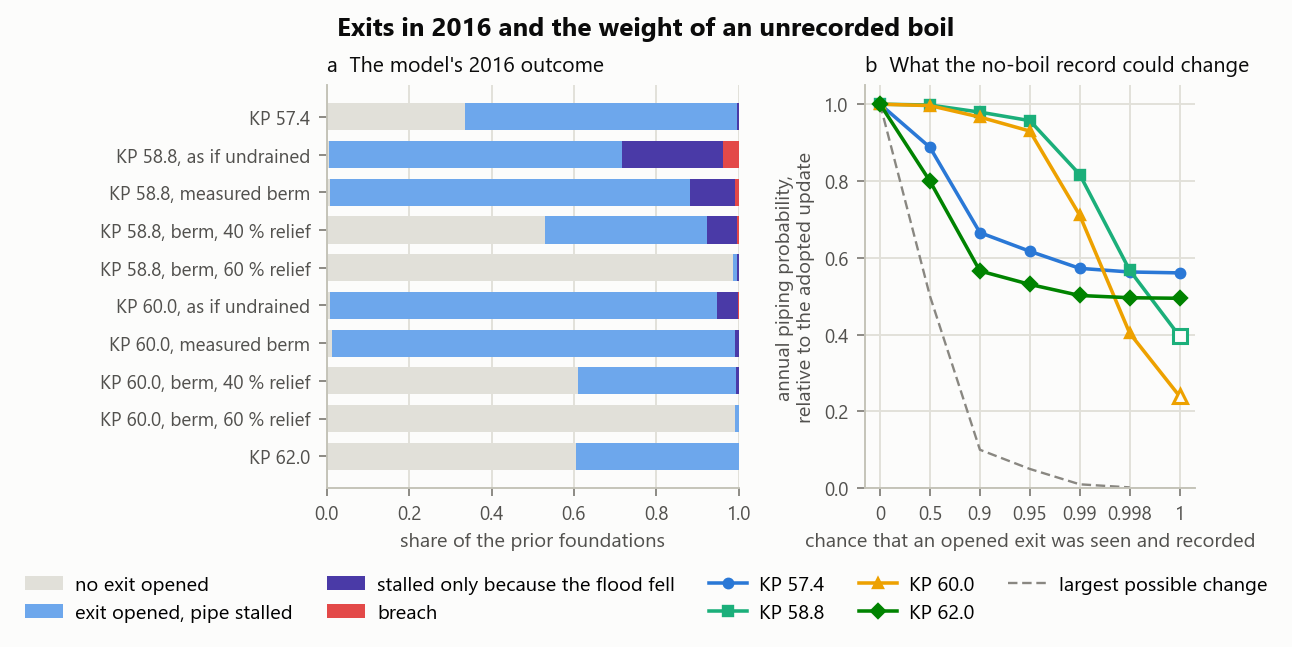
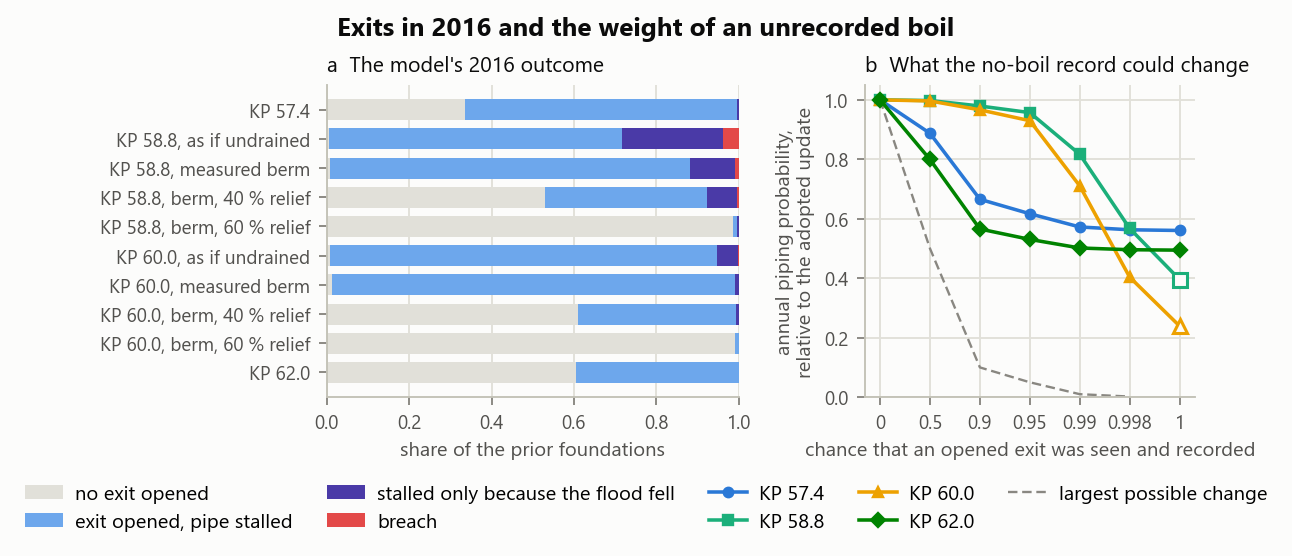
Fit the 2016 outcome figure to its thesis page

Changed region(s): [[0.0619, 0.0306, 0.9907, 0.9784], [0.5263, 0.6727, 0.9907, 0.9784], [0.0, 0.8561, 0.2167, 0.9784]]

diff --git a/scripts/initiation_evidence_2016_study.py b/scripts/initiation_evidence_2016_study.py
@@ -1078,7 +1078,7 @@ def _fig_initiation(record: dict, fs, mirror: Path) -> Path:
     ini = record["initiation"]
     ann = record["annual"]["detection_probability_curve"]
     width = fs.TEXTWIDTH_IN
-    height = width * 0.62
+    height = width * 0.54
     scale = fs.scale_for(width)
     fs.style(scale)
     fig, (ax, bx) = plt.subplots(
